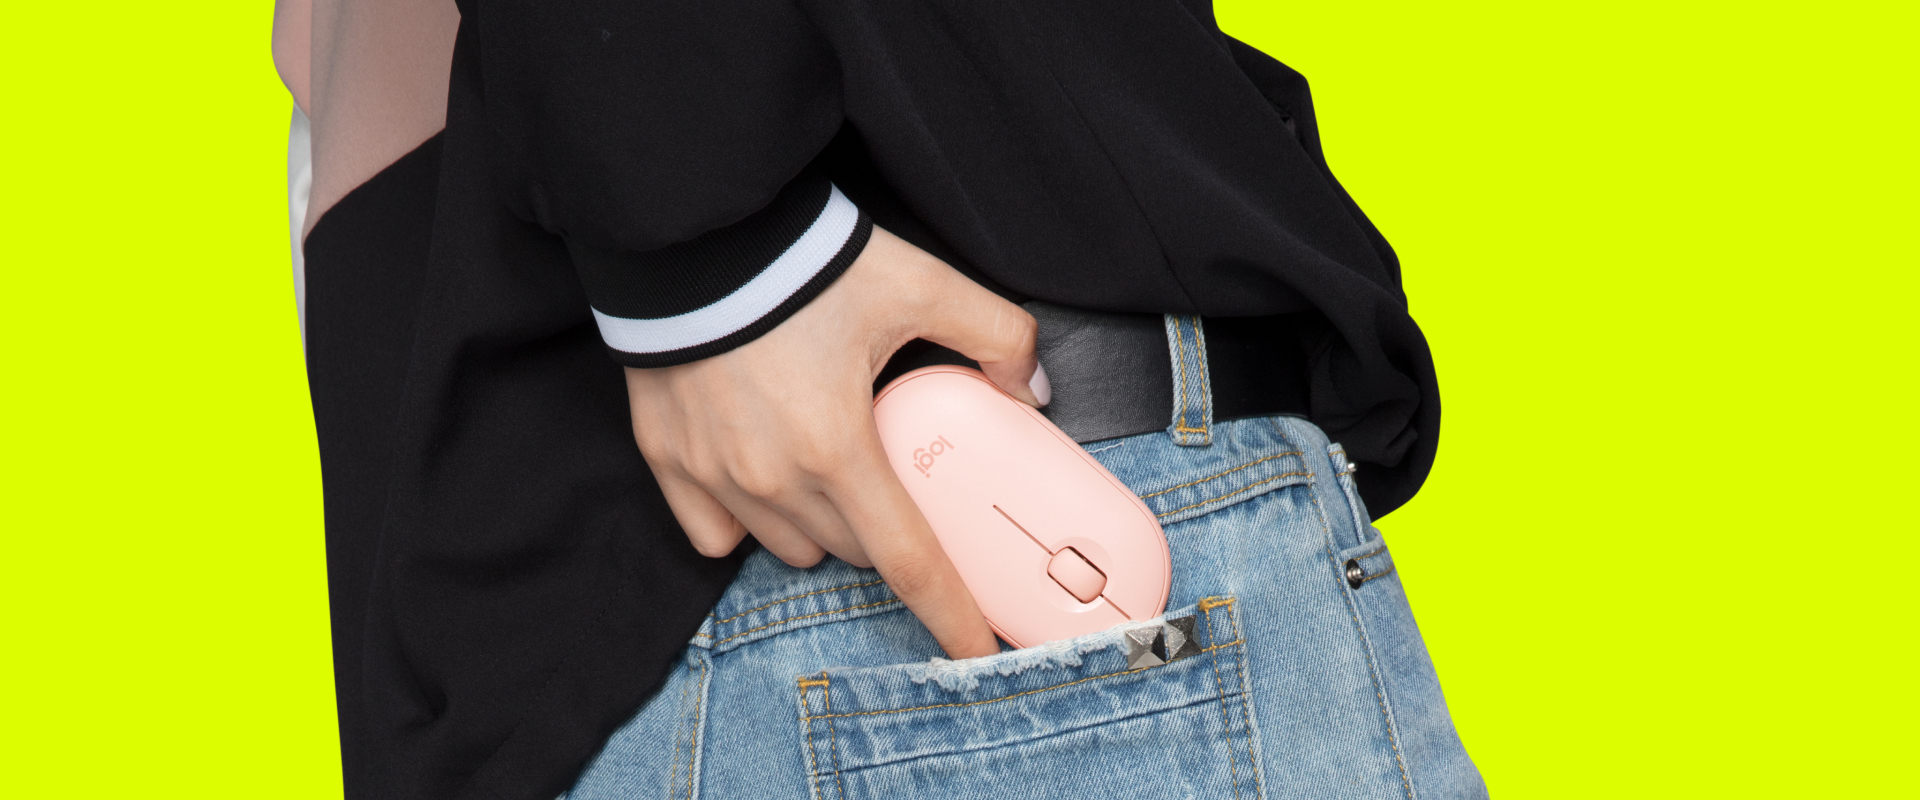
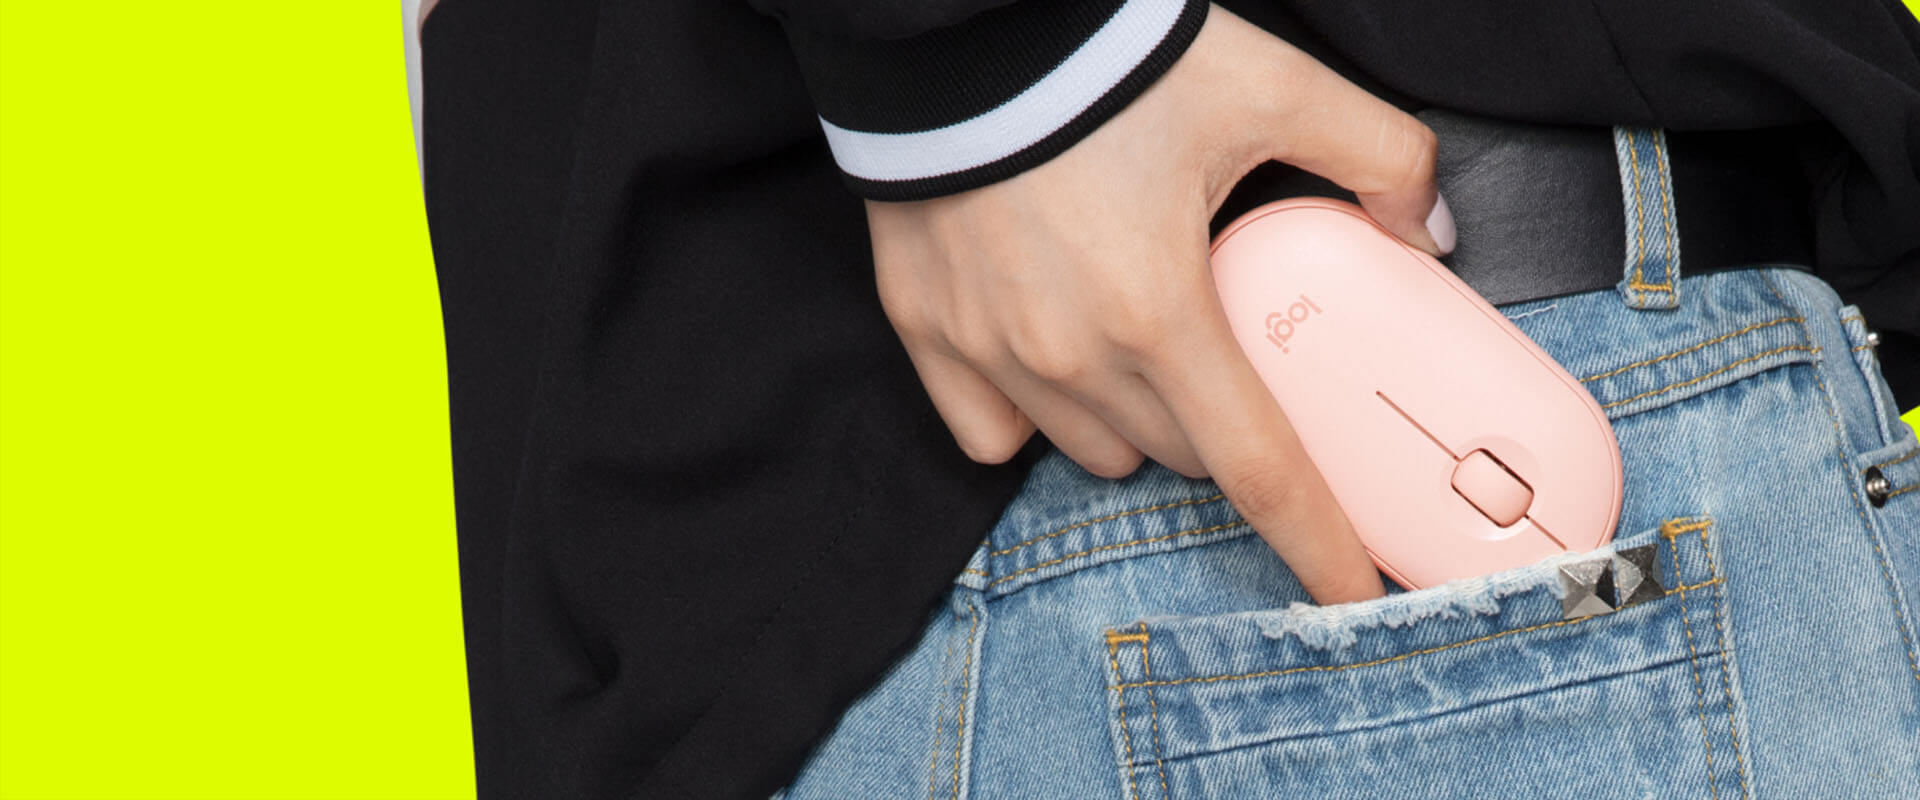
Final changes v2

diff --git a/components/second_section/index.vue b/components/second_section/index.vue
@@ -10,6 +10,7 @@
           :text="item.text"
           :desc="item.desc"
           :image="item.url"
+          :side="item.side"
           :inverse="false" />
       </slide>
     </hooper>
@@ -48,22 +49,26 @@ export default {
         {
           text: 'Современная, изящная и красивая',
           desc: 'Элегантный дизайн этой портативной мыши будет прекрасно смотреться на вашем столе',
-          url: '/images/slides/second_slide_1.jpg'
+          url: '/images/slides/second_slide_1.jpg',
+          side: false
         },
         {
           text: 'ОРГАНИЧНАЯ ФОРМА ДЛЯ ВАС',
           desc: 'Округлый и естественный дизайн Logitech Pebble M350позволяет мышке комфортно ложится в ладонь',
-          url: '/images/slides/second_slide_2.jpg'
+          url: '/images/slides/second_slide_2.jpg',
+          side: false
         },
         {
           text: 'ЧРЕЗВЫЧАЙНО КОМПАКТНАЯ',
           desc: 'Небольшой размер позволяет с лёгкостью уместить её в сумку для ноутбука и пользоваться ею в пути',
-          url: '/images/slides/second_slide_3.jpg'
+          url: '/images/slides/second_slide_3.jpg',
+          side: false
         },
         {
           text: 'ВАШ ПРАВИЛЬНЫЙ ЦВЕТ',
           desc: 'Выберите мышь кремового, розового или графитового цвета, в зависимости от облика вашего стола',
-          url: '/images/slides/second_slide_4.jpg'
+          url: '/images/slides/second_slide_4.jpg',
+          side: false
         }
       ]
     }

diff --git a/components/slider_section/index.vue b/components/slider_section/index.vue
@@ -10,6 +10,7 @@
           :text="item.text"
           :desc="item.desc"
           :image="item.url"
+          :side="item.side"
           :inverse="true" />
       </slide>
     </hooper>
@@ -48,22 +49,26 @@ export default {
         {
           text: 'Тихий щелчок и бесшумная прокрутка',
           desc: '«Щелчок» мыши на 90% ниже обычного, а резиновое колесико прокрутки скользит в полной тишине',
-          url: '/images/slides/slider_slide_1.jpg'
+          url: '/images/slides/slider_slide_1.jpg',
+          side: true
         },
         {
           text: 'Два способа подключения',
           desc: 'Доступны способы подключения через Bluetooth® и входящий в комплект USB-приемник. На расстоянии до 10м',
-          url: '/images/slides/slider_slide_2.jpg'
+          url: '/images/slides/slider_slide_2.jpg',
+          side: false
         },
         {
           text: 'Высокоточное оптическое отслеживание',
           desc: 'Движение мыши Logitech Pebble M350 быстро и точно отслеживается на большинстве поверхностей',
-          url: '/images/slides/slider_slide_3.jpg'
+          url: '/images/slides/slider_slide_3.jpg',
+          side: true
         },
         {
           text: '18 месяцев автономной работы',
           desc: 'Автоматический "спящий режим" для экономии заряда',
-          url: '/images/slides/slider_slide_4.jpg'
+          url: '/images/slides/slider_slide_4.jpg',
+          side: true
         }
       ]
     }

diff --git a/nuxt.config.js b/nuxt.config.js
@@ -28,7 +28,7 @@ module.exports = {
       { name: 'theme-color', content: '#ffffff' },
       { name: 'format-detection', content: 'telephone=no' },
       // TWITTER: OG
-      { name: 'twitter:title', content: 'Logitech M350 Pebble. Стильная. Современная. Тихая.' },
+      { name: 'twitter:title', content: 'Logitech M350 Pebble. Тихая. Стильная. Современная. Мышь.' },
       { name: 'twitter:description', content: 'Logitech Pebble M350-это модная, ультралегкая, беспроводная мышь, которая идет туда, куда ведет вас жизнь. Тихие щелчки и прокрутка означают, что вы можете работать, не беспокоя никого вокруг вас' },
       { name: 'twitter:image', content: 'http://headsets.logitech.promo/images/misc/og_image.jpg' },
       // OPEN GRAPH
@@ -47,7 +47,7 @@ module.exports = {
     ],
     script: [
       {
-        src: 'https://www.googletagmanager.com/gtag/js?id=GTM-MR8ZG9J'
+        src: 'https://www.googletagmanager.com/gtag/js?id=AW-699434004'
       }
     ]
   },
@@ -81,6 +81,8 @@ module.exports = {
   */
   plugins: [
     { src: '~/plugins/waypoint', mode: 'client' },
+    { src: '~/plugins/facebook.js', ssr: false },
+    { src: '~/plugins/vkontakte.js', ssr: false },
     { src: '~/plugins/ga.js', mode: 'client' },
   ],
 

diff --git a/pages/index.vue b/pages/index.vue
@@ -7,6 +7,18 @@
     <PresentComponent />
     <ParamsComponent />
     <FooterComponent />
+    <noscript>
+      <img height="1" width="1" style="display:none" src="https://www.facebook.com/tr?id=502040143730036&ev=PageView&noscript=1" alt="" />
+    </noscript>
+    <noscript>
+      <img src="https://vk.com/rtrg?p=VK-RTRG-434962-dhBIh" style="position:fixed; left:-999px;" alt=""/>
+    </noscript>
+    <noscript>
+      <img src="https://top-fwz1.mail.ru/counter?id=3152769;js=na" style="border:0;position:absolute;left:-9999px;" alt="Top.Mail.Ru" />
+    </noscript>
+    <noscript>
+      <iframe src="https://www.googletagmanager.com/ns.html?id=AW-699434004" height="0" width="0" style="display:none;visibility:hidden" />
+    </noscript>
   </main>
 </template>
 
@@ -28,6 +40,9 @@ export default {
     PresentComponent,
     ParamsComponent,
     FooterComponent
+  },
+  mounted() {
+    window.fbq ? window.fbq('track', 'InitiateCheckout') : null
   }
 }
 </script>

diff --git a/components/slide/index.vue b/components/slide/index.vue
@@ -1,5 +1,5 @@
 <template>
-  <div ref="slide" :class="['slide', {'inverse': inverse}]" :style="`background: url(${image}) no-repeat center`">
+  <div ref="slide" :class="['slide', {'inverse': inverse, 'side': side}]" :style="`background: url(${image}) no-repeat center`">
     <div :style="`background: url(${image}) no-repeat center; background-size: cover`" class="slide-left" />
     <div class="slide-right">
       <div class="slide-right-area">
@@ -28,6 +28,10 @@ export default {
     inverse: {
       type: Boolean,
       default: false
+    },
+    side: {
+      type: Boolean,
+      default: false
     }
   }
 }
@@ -53,8 +57,12 @@ export default {
     background-size: var(--bg)!important
     align-items: flex-start
     height: 800px
+    &.side
+      align-items: flex-end
     &.inverse
       align-items: flex-end
+      &.side
+        align-items: flex-start
 
   &-left
     width: 100%

diff --git a/plugins/mailru.js b/plugins/mailru.js
@@ -1,0 +1,26 @@
+/* eslint-disable */
+
+export default () => {
+  if (process.browser) {
+
+    var _tmr = window._tmr || (window._tmr = [])
+    _tmr.push({id: '3152769', type: 'pageView', start: (new Date()).getTime(), pid: 'USER_ID'});
+    (function (d, w, id) {
+      if (d.getElementById(id)) return
+      var ts = d.createElement('script')
+      ts.type = 'text/javascript'
+      ts.async = true
+      ts.id = id
+      ts.src = 'https://top-fwz1.mail.ru/js/code.js'
+      var f = function () {
+        var s = d.getElementsByTagName('script')[0]
+        s.parentNode.insertBefore(ts, s)
+      }
+      if (w.opera === '[object Opera]') {
+        d.addEventListener('DOMContentLoaded', f, false)
+      } else {
+        f()
+      }
+    })(document, window, 'topmailru-code')
+  }
+}

diff --git a/plugins/facebook.js b/plugins/facebook.js
@@ -1,0 +1,27 @@
+export default ({ app }) => {
+  !function (f, b, e, v, n, t, s) {
+    if (f.fbq) return
+    n = f.fbq = function () {
+      n.callMethod ?
+        n.callMethod.apply(n, arguments) : n.queue.push(arguments)
+    }
+    if (!f._fbq) f._fbq = n
+    n.push = n
+    n.loaded = !0
+    n.version = '2.0'
+    n.queue = []
+    t = b.createElement(e)
+    t.async = !0
+    t.src = v
+    s = b.getElementsByTagName(e)[0]
+    s.parentNode.insertBefore(t, s)
+  }(window, document, 'script',
+    'https://connect.facebook.net/en_US/fbevents.js')
+
+  window.fbq('init', '502040143730036')
+
+  app.router.afterEach(() => {
+    window.fbq('track', 'PageView')
+  })
+}
+

diff --git a/components/main_section/index.vue b/components/main_section/index.vue
@@ -1,7 +1,7 @@
 <template>
   <section ref="main" class="main">
     <img class="main-logo" src="/images/misc/logitech_logo_white.svg" alt="Logitech Pebble">
-    <span class="main-desc">Тонкая. Современная. Тихая.</span>
+    <span class="main-desc">Тихая. Тонкая. Современная. Мышь.</span>
     <div class="main-header">
       <h1 class="main-header-title">Logitech Pebble M350</h1>
       <span class="main-header-desc">Стильный и продуманный подарок на новый год</span>

diff --git a/plugins/ga.js b/plugins/ga.js
@@ -1,9 +1,11 @@
 /* eslint-disable */
 
 export default () => {
-  window.dataLayer = window.dataLayer || [];
-  function gtag(){dataLayer.push(arguments);}
-  gtag('js', new Date());
+  window.dataLayer = window.dataLayer || []
 
-  gtag('config', 'GTM-MR8ZG9J');
+  const gtag = () => {
+    dataLayer.push(arguments)
+  }
+  gtag('js', new Date())
+  gtag('config', 'AW-699434004')
 }

diff --git a/plugins/vkontakte.js b/plugins/vkontakte.js
@@ -1,0 +1,14 @@
+export default () => {
+  !function () {
+    let t = document.createElement('script')
+    t.type = 'text/javascript'
+    t.async = !0
+    t.src = 'https://vk.com/js/api/openapi.js?162'
+    t.onload = function() {
+      window.VK.Retargeting.Init('VK-RTRG-434962-dhBIh')
+      window.VK.Retargeting.Hit()
+    }
+    document.head.appendChild(t)
+  }()
+}
+

diff --git a/constants/uploader.js b/constants/uploader.js
@@ -21,7 +21,7 @@ export const FILES_LIST = [
   '/images/present/black_03_400.png',
   '/images/present/black_04_400.png',
   '/images/present/black_05_400.png',
-  '/images/bg/review_section.png',
+  '/images/bg/review_section.jpg',
   '/images/slides/slider_slide_1.jpg',
   '/images/slides/second_slide_1.jpg',
 ]

diff --git a/components/review_section/index.vue b/components/review_section/index.vue
@@ -28,7 +28,7 @@ export default {
 
 <style lang="sass" scoped>
 .review
-  background: url('/images/bg/review_section.png') no-repeat center
+  background: url('/images/bg/review_section.jpg') no-repeat center
   background-size: 300%
   @include desktop
     padding: 160px 200px
